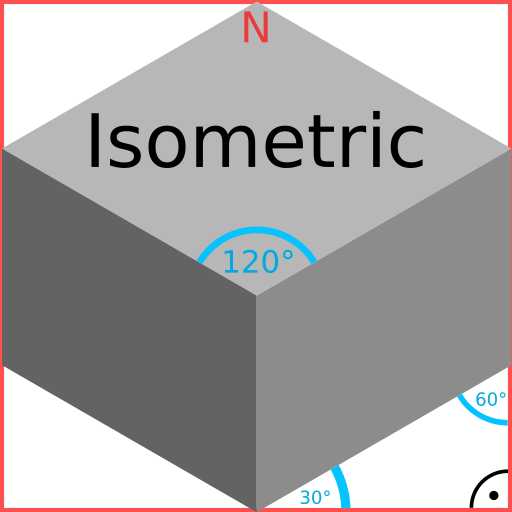
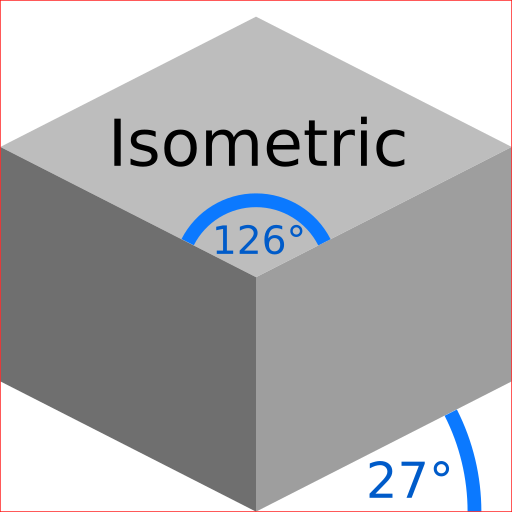
projections working + additional graphics. angles hardcoded and not sure about their values

diff --git a/core/src/citymanager/area/Init.java b/core/src/citymanager/area/Init.java
@@ -41,6 +41,7 @@ public class Init extends ApplicationAdapter {
 	float TILE_WIDTH_DIAGONALE;
 
 	String projectionType;
+	boolean trueIsometric;
 
 	float devicePixelAspectRatio;
 	float deviceScreenAspectRatio;
@@ -58,20 +59,25 @@ public class Init extends ApplicationAdapter {
 	ShapeRenderer sr;
 
 	//matrix to rotate the grid from topdown to iso/dimetric
-	Matrix4 areaRotateXMatrix = new Matrix4();
+	Matrix4 areaRotation = new Matrix4();
 
 	@Override
 	public void create(){
 		screenEmulator = new ScreenEmulator();
 
+		trueIsometric = false;
 		projectionType = "oblique";
 
 		//resolutionFileResolver = new ResolutionFileResolver();
-		terrain = new Sprite(new Texture(Gdx.files.internal("tile_grass.png")));
+		terrain = new Sprite(new Texture(Gdx.files.internal("supertile_grass.png")));
 		if( projectionType == "oblique" ) {
 			building = new Building(new Texture(Gdx.files.internal("box_oblique.png")), 3, 1, 1);
 		}else {
-			building = new Building(new Texture(Gdx.files.internal("box_isometric.png")), 3, 1, 1);
+			if( trueIsometric ){
+				building = new Building(new Texture(Gdx.files.internal("box_trueIsometric.png")), 3, 1, 1);
+			}else{
+				building = new Building(new Texture(Gdx.files.internal("box_isometric.png")), 3, 1, 1);
+			}
 		}
 
 		batch = new SpriteBatch();
@@ -82,8 +88,8 @@ public class Init extends ApplicationAdapter {
 		//TILE setup
 		TILES_X = 20;
 		TILES_Y = 20;
-		TILE_WIDTH  = 10;
-		TILE_HEIGHT = 10;
+		TILE_WIDTH  = 12;
+		TILE_HEIGHT = 12;
 		TILE_WIDTH_DIAGONALE = (float)Math.sqrt( (AREA_WIDTH*AREA_WIDTH)+(AREA_HEIGHT*AREA_HEIGHT) );
 
 		//AREA setup
@@ -91,34 +97,59 @@ public class Init extends ApplicationAdapter {
 		AREA_WIDTH = TILES_X*TILE_WIDTH;
 		AREA_HEIGHT = TILES_Y*TILE_HEIGHT;
 		AREA_WIDTH_DIAGONALE = (float)Math.sqrt( (AREA_WIDTH*AREA_WIDTH)+(AREA_HEIGHT*AREA_HEIGHT) );
+		float angle = 0;
+		float offsetY = 0;
+		//OBLIQUE
 		if( projectionType == "oblique" ) {
 			//AREA_HEIGHT_DIAGONALE = AREA_WIDTH_DIAGONALE/1.4f;
 			AREA_HEIGHT_DIAGONALE = AREA_WIDTH_DIAGONALE/1.33f;
 			//calculate angle for oblique
-			//tan(phi) = (AREA_HEIGHT_DIAGONALE/2)/(AREA_WIDTH_DIAGONALE/2)
-			float angle = (float)Math.atan( (AREA_HEIGHT_DIAGONALE/2)/(AREA_WIDTH_DIAGONALE/2) );
-			angle = (float)Math.toDegrees(angle)*-1;
-			System.out.println(angle);
-			areaRotateXMatrix.setToRotation(new Vector3(1,0,0), angle);
+			angle = (float)Math.atan( (AREA_HEIGHT_DIAGONALE/2)/(AREA_WIDTH_DIAGONALE/2) );
+			angle = (float)Math.toDegrees(angle);
+			angle = (90-angle)*-1;
+			angle = 41.26f*-1;
+			areaRotation.setToRotation(new Vector3(1,0,0), angle);
+			//calculate position Y offset, that happens through rotation
+			//HEIGHT_DIAGONALE minus distance from rotation
+			offsetY = (AREA_HEIGHT_DIAGONALE*(1.33f/2))-AREA_HEIGHT_DIAGONALE;
 		}else{
+		//ISOMETRIC
 			AREA_HEIGHT_DIAGONALE = AREA_WIDTH_DIAGONALE/2;
-			float angle = (float)Math.atan( (AREA_HEIGHT_DIAGONALE)/(AREA_WIDTH_DIAGONALE/2) );
-			angle = (float)Math.toDegrees(angle)*-1;
-			areaRotateXMatrix.setToRotation(new Vector3(1,0,0), -60);
-			//areaRotateXMatrix.setToRotation(new Vector3(1,0,0), angle);
+			if( trueIsometric ){
+				areaRotation.setToRotation(new Vector3(1,0,0), -60);
+			}else{
+				angle = (float)Math.atan( (AREA_HEIGHT_DIAGONALE/2)/(AREA_WIDTH_DIAGONALE/2) );
+				angle = (float)Math.floor( Math.toDegrees(angle) );
+				angle = (90-angle)*-1;
+				angle = 60*-1;
+				areaRotation.setToRotation(new Vector3(1,0,0), angle);
+			}
 		}
+		System.out.println("Area WidthDiag: "+AREA_WIDTH_DIAGONALE+"\n"
+                +"Area HeightDiag: "+AREA_HEIGHT_DIAGONALE+"\n"
+                +"Area WDiag/2: "+AREA_WIDTH_DIAGONALE/2+"\n"
+                +"Area HDiag/2: "+AREA_HEIGHT_DIAGONALE/2+"\n"
+				+"Angle: "+angle+"\n"
+                +"offsetY: "+offsetY+"\n"
+        );
 
 		//WORLD setup
 		WORLD_WIDTH = AREA_WIDTH_DIAGONALE;
 		WORLD_HEIGHT = AREA_HEIGHT_DIAGONALE;
 
 		terrain.setOrigin(0,0);
-		terrain.setPosition(0, AREA_WIDTH_DIAGONALE/2f);
+		terrain.setPosition(0, AREA_HEIGHT_DIAGONALE+offsetY);
 		terrain.setSize(AREA_WIDTH, AREA_HEIGHT);
 		terrain.rotate(-45);
 
-		building.setPosition(13.15f*TILE_WIDTH, 0.2f );
+		if( projectionType == "oblique") {
+			building.setPosition(13.21f * TILE_WIDTH, 0f);
+		}else{
+			building.setPosition(13.14f*TILE_WIDTH, 0f );
+		}
 		building.setSize( 2*TILE_WIDTH,2*TILE_HEIGHT);
+        //building.setPosition(0,0);
+        //building.setSize(AREA_WIDTH_DIAGONALE, AREA_WIDTH_DIAGONALE);
 		building.setOrigin(0, 0);
 
 		deviceScreenAspectRatio = (float)Gdx.graphics.getWidth()/(float)Gdx.graphics.getHeight();
@@ -144,7 +175,7 @@ public class Init extends ApplicationAdapter {
 		Gdx.gl.glBlendFunc(GL20.GL_SRC_ALPHA, GL20.GL_ONE_MINUS_SRC_ALPHA);
 
 		batchRotated.setProjectionMatrix(cam.combined);
-		batchRotated.setTransformMatrix(areaRotateXMatrix);
+		batchRotated.setTransformMatrix(areaRotation);
 		batchRotated.begin();
 		terrain.draw(batchRotated);
 		batchRotated.end();
@@ -195,7 +226,10 @@ public class Init extends ApplicationAdapter {
 //						"PPC-x: " + Gdx.graphics.getPpcX() + "\n" +
 //						"PPC-y: " + Gdx.graphics.getPpcY() + "\n" +
 //						"PPI-x: " + Gdx.graphics.getPpiX() + "\n" +
-//						"PPI-y: " + Gdx.graphics.getPpiY()
+//						"PPI-x: " + Gdx.graphics.getPpiY() + "\n" +
+//						"FPS: " + Gdx.graphics.getFPS() + "\n" +
+//						"Projection: " + projectionType + "\n" +
+//						""
 //				, 0, viewport.getWorldHeight());
 //		batch.end();
 

diff --git a/core/src/citymanager/area/Building.java b/core/src/citymanager/area/Building.java
@@ -17,6 +17,7 @@ public class Building {
         this.gridSpace = occupiedGridSpace;
         positionX = posX;
         positionY = posY;
+        imageSprite.setAlpha(0.8f);
     }
 
     public void setSize(float width, float height){
